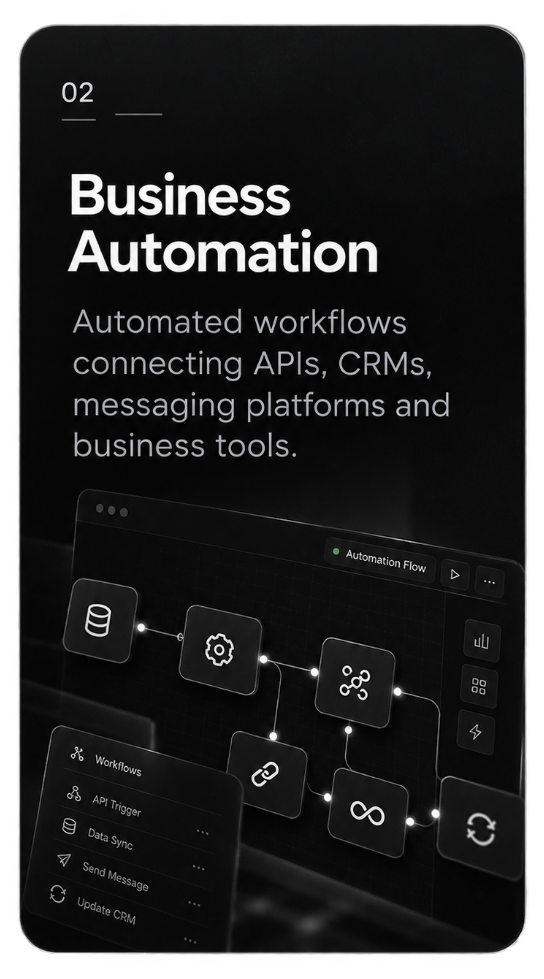
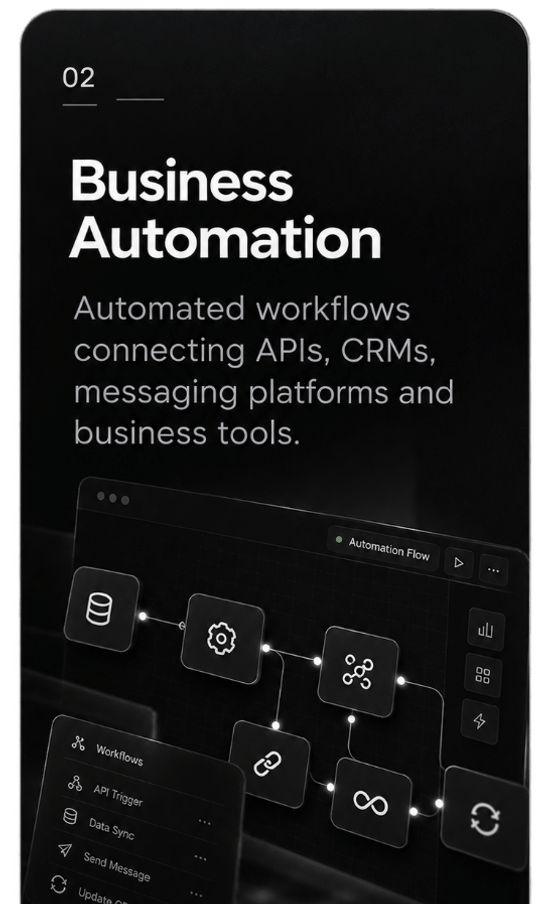
fix(performance): convert card images & asteroid to WebP, eliminate lazy-load lag, and fix Card 2 aspect ratio misalignment

diff --git a/index.html b/index.html
@@ -59,6 +59,11 @@
 
     <!-- Preload critical resources -->
     <link rel="preload" href="user-photo.png" as="image">
+    <link rel="preload" href="content/Images/wib-ai-systems.webp" as="image" type="image/webp">
+    <link rel="preload" href="content/Images/wib-automation.webp" as="image" type="image/webp">
+    <link rel="preload" href="content/Images/wib-fullstack.webp" as="image" type="image/webp">
+    <link rel="preload" href="content/Images/wib-backend.webp" as="image" type="image/webp">
+    <link rel="preload" href="assets/tech-asteroid.webp" as="image" type="image/webp">
     <link rel="preconnect" href="https://fonts.googleapis.com">
     <link rel="preconnect" href="https://fonts.gstatic.com" crossorigin>
 
@@ -917,28 +922,40 @@
                 <!-- Card 01 — AI Systems -->
                 <div class="wib-card">
                     <div class="wib-card-visual">
-                        <img src="content/Images/wib-ai-systems.png" alt="AI Systems &amp; Agentic Workflows by Ayaan Shahbaz — Autonomous AI agents, MCP integration, RAG pipelines, and custom LLM solutions" loading="lazy">
+                        <picture>
+                            <source srcset="content/Images/wib-ai-systems.webp" type="image/webp">
+                            <img src="content/Images/wib-ai-systems.png" alt="AI Systems &amp; Agentic Workflows by Ayaan Shahbaz — Autonomous AI agents, MCP integration, RAG pipelines, and custom LLM solutions" loading="eager" decoding="async" width="548" height="904">
+                        </picture>
                     </div>
                 </div>
 
                 <!-- Card 02 — Business Automation -->
                 <div class="wib-card">
                     <div class="wib-card-visual">
-                        <img src="content/Images/wib-automation.png" alt="Intelligent Business Automation &amp; n8n Workflows by Ayaan Shahbaz — CRM integration, WhatsApp automation, lead qualification, and process orchestration" loading="lazy">
+                        <picture>
+                            <source srcset="content/Images/wib-automation.webp" type="image/webp">
+                            <img src="content/Images/wib-automation.png" alt="Intelligent Business Automation &amp; n8n Workflows by Ayaan Shahbaz — CRM integration, WhatsApp automation, lead qualification, and process orchestration" loading="eager" decoding="async" width="548" height="904">
+                        </picture>
                     </div>
                 </div>
 
                 <!-- Card 03 — Full-Stack Applications -->
                 <div class="wib-card">
                     <div class="wib-card-visual">
-                        <img src="content/Images/wib-fullstack.png" alt="Full-Stack Web &amp; SaaS Applications by Ayaan Shahbaz — Python Django backends, Next.js, React, TypeScript frontends, and custom dashboards" loading="lazy">
+                        <picture>
+                            <source srcset="content/Images/wib-fullstack.webp" type="image/webp">
+                            <img src="content/Images/wib-fullstack.png" alt="Full-Stack Web &amp; SaaS Applications by Ayaan Shahbaz — Python Django backends, Next.js, React, TypeScript frontends, and custom dashboards" loading="eager" decoding="async" width="548" height="904">
+                        </picture>
                     </div>
                 </div>
 
                 <!-- Card 04 — Backend & Integrations -->
                 <div class="wib-card">
                     <div class="wib-card-visual">
-                        <img src="content/Images/wib-backend.png" alt="Backend Architecture &amp; API Integrations by Ayaan Shahbaz — Django REST Framework (DRF), PostgreSQL, webhooks, and secure third-party integrations" loading="lazy">
+                        <picture>
+                            <source srcset="content/Images/wib-backend.webp" type="image/webp">
+                            <img src="content/Images/wib-backend.png" alt="Backend Architecture &amp; API Integrations by Ayaan Shahbaz — Django REST Framework (DRF), PostgreSQL, webhooks, and secure third-party integrations" loading="eager" decoding="async" width="548" height="904">
+                        </picture>
                     </div>
                 </div>
 
@@ -1040,7 +1057,10 @@
 
                 <!-- Central Asteroid with orbital micro-particles -->
                 <div class="tech-asteroid-center" id="techAsteroidCore">
-                    <img src="assets/tech-asteroid.png" alt="Cosmic Tech Asteroid Core" class="asteroid-core-img" loading="lazy">
+                    <picture>
+                        <source srcset="assets/tech-asteroid.webp" type="image/webp">
+                        <img src="assets/tech-asteroid.png" alt="Cosmic Tech Asteroid Core" class="asteroid-core-img" loading="eager" decoding="async" width="800" height="800">
+                    </picture>
                 </div>
 
                 <!-- Cluster 1: AI & LLMs (Top Center-Left) -->

diff --git a/style.css b/style.css
@@ -2946,13 +2946,20 @@ body.light-theme .htb-tz {
     aspect-ratio: 548 / 904;
     overflow: hidden;
     display: flex;
+    background: radial-gradient(circle at center, rgba(255, 255, 255, 0.03) 0%, rgba(13, 13, 13, 0.95) 100%);
+}
+
+.wib-card-visual picture {
+    width: 100%;
+    height: 100%;
+    display: flex;
 }
 
 .wib-card-visual img {
     width: 100%;
     height: 100%;
-    object-fit: contain;
-    object-position: center;
+    object-fit: cover;
+    object-position: top center;
     display: block;
     transition: transform 0.6s ease;
     filter: brightness(0.98);
@@ -3225,6 +3232,10 @@ body.light-theme .wib-card-title {
     display: flex;
     align-items: center;
     justify-content: center;
+}
+
+.tech-asteroid-center picture {
+    display: contents;
 }
 
 .asteroid-core-img {
